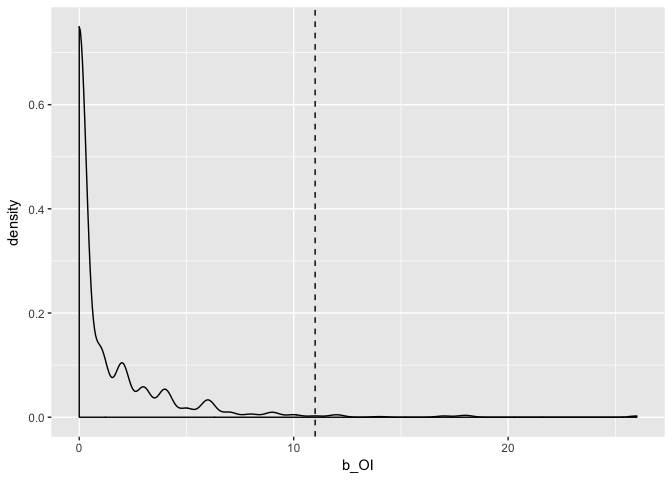
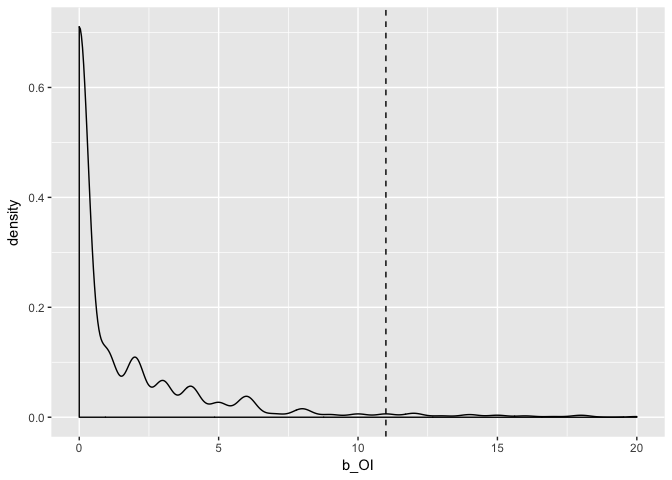
Trial research markdown

diff --git a/R/trial_research_sample.md b/R/trial_research_sample.md
@@ -168,20 +168,20 @@ summary(model)
     ## Iterations:  2 out of 20 
     ## 
     ## Monte Carlo MLE Results:
-    ##                 Estimate Std. Error MCMC % p-value    
-    ## edges           -4.56994    0.16667      0 < 1e-04 ***
-    ## mutual           1.68784    0.19673      0 < 1e-04 ***
-    ## intransitive     0.03863    0.01915      0 0.04366 *  
-    ## gwesp.fixed.0.1  1.22111    0.10219      0 < 1e-04 ***
-    ## gwdsp.fixed.0.1 -0.08810    0.02941      0 0.00274 ** 
-    ## nodematch.grade  1.31187    0.11753      0 < 1e-04 ***
+    ##                 Estimate Std. Error MCMC %  p-value    
+    ## edges           -4.47763    0.17632      0  < 1e-04 ***
+    ## mutual           1.72722    0.18177      0  < 1e-04 ***
+    ## intransitive     0.04670    0.01211      0 0.000115 ***
+    ## gwesp.fixed.0.1  1.21966    0.10338      0  < 1e-04 ***
+    ## gwdsp.fixed.0.1 -0.10789    0.01913      0  < 1e-04 ***
+    ## nodematch.grade  1.25626    0.12238      0  < 1e-04 ***
     ## ---
     ## Signif. codes:  0 '***' 0.001 '**' 0.01 '*' 0.05 '.' 0.1 ' ' 1
     ## 
     ##      Null Deviance: 15723  on 11342  degrees of freedom
-    ##  Residual Deviance:  2624  on 11336  degrees of freedom
+    ##  Residual Deviance:  2626  on 11336  degrees of freedom
     ##  
-    ## AIC: 2636    BIC: 2680    (Smaller is better.)
+    ## AIC: 2638    BIC: 2682    (Smaller is better.)
 
 After specifying and estimating the model, it is critical to assess its
 fit to the data and to diagnose any issues in the Markov Chain Monte
@@ -236,7 +236,7 @@ distribution.
 ecdf(model_tridist)(summary(faux.desert.high ~ triangle))
 ```
 
-    ## [1] 0.38
+    ## [1] 0.307
 
 Now I can proceed with the brokerage test. Here’s the basic process:
 
@@ -295,12 +295,12 @@ head(dist[[1]])
     ## # Groups:   grade [1]
     ##     w_I   w_O  b_IO  b_OI   b_O     t grade
     ##   <dbl> <dbl> <dbl> <dbl> <dbl> <dbl> <int>
-    ## 1 22.0   0     0     4.00  0    26.0      7
-    ## 2  7.00  0    14.0   6.00  3.00 30.0      7
-    ## 3  2.00  1.00  3.00  2.00  0     8.00     7
-    ## 4 34.0   0    14.0   9.00  2.00 59.0      7
-    ## 5  2.00  0     0     0     0     2.00     7
-    ## 6  9.00  0     0     3.00  0    12.0      7
+    ## 1 18.0   0    13.0   7.00  2.00 40.0      7
+    ## 2 50.0   0     9.00  0     0    59.0      7
+    ## 3  5.00  0     0     4.00  0     9.00     7
+    ## 4 26.0   0     6.00  6.00  1.00 39.0      7
+    ## 5 20.0   1.00  7.00  6.00  0    34.0      7
+    ## 6  8.00  0     0     0     0     8.00     7
 
 ``` r
 head(obs[[1]])
@@ -385,18 +385,17 @@ head(b_scores)
 ```
 
     ##   id Coordinator Consultant Representative Gatekeeper Liaison Total
-    ## 1  7       0.099          1          0.139      1.000   1.000 0.155
-    ## 2 12       0.206          1          0.151      1.000   1.000 0.257
-    ## 3 15       0.418          1          1.000      0.408   1.000 0.524
-    ## 4 19       0.701          1          0.549      0.408   0.355 0.651
-    ## 5 24       0.636          1          1.000      1.000   1.000 0.820
-    ## 6 34       0.279          1          0.096      0.471   1.000 0.224
+    ## 1  7       0.145          1          0.153      1.000   1.000 0.204
+    ## 2 12       0.280          1          0.173      1.000   1.000 0.311
+    ## 3 15       0.528          1          1.000      0.454   1.000 0.626
+    ## 4 19       0.787          1          0.582      0.454   0.357 0.730
+    ## 5 24       0.749          1          1.000      1.000   1.000 0.860
+    ## 6 34       0.353          1          0.128      0.511   1.000 0.280
 
 So those are all percentile ranks for each node’s brokerage score in
-each role. We have to choose an alpha as the cutoff for significance. I
-used 0.05 in my paper, but I could see an argument for 0.01. I will
-create a dummy variable for each row where 1 indicate the node occupies
-a brokerage role and 0 otherwise.
+each role. We have to choose an alpha as the cutoff for significance. In
+this case, I use 0.01. I will create a dummy variable for each row where
+1 indicate the node occupies a brokerage role and 0 otherwise.
 
 ``` r
 brokers <- b_scores %>% 
@@ -475,7 +474,7 @@ brokers %>%
     ## # A tibble: 2 x 3
     ##   broker mean_range sd_range
     ##    <dbl>      <dbl>    <dbl>
-    ## 1   0         0.450    0.231
-    ## 2   1.00      0.585    0.210
+    ## 1   0         0.448    0.229
+    ## 2   1.00      0.619    0.204
 
 Indeed the brokers have greater mean range scores.
